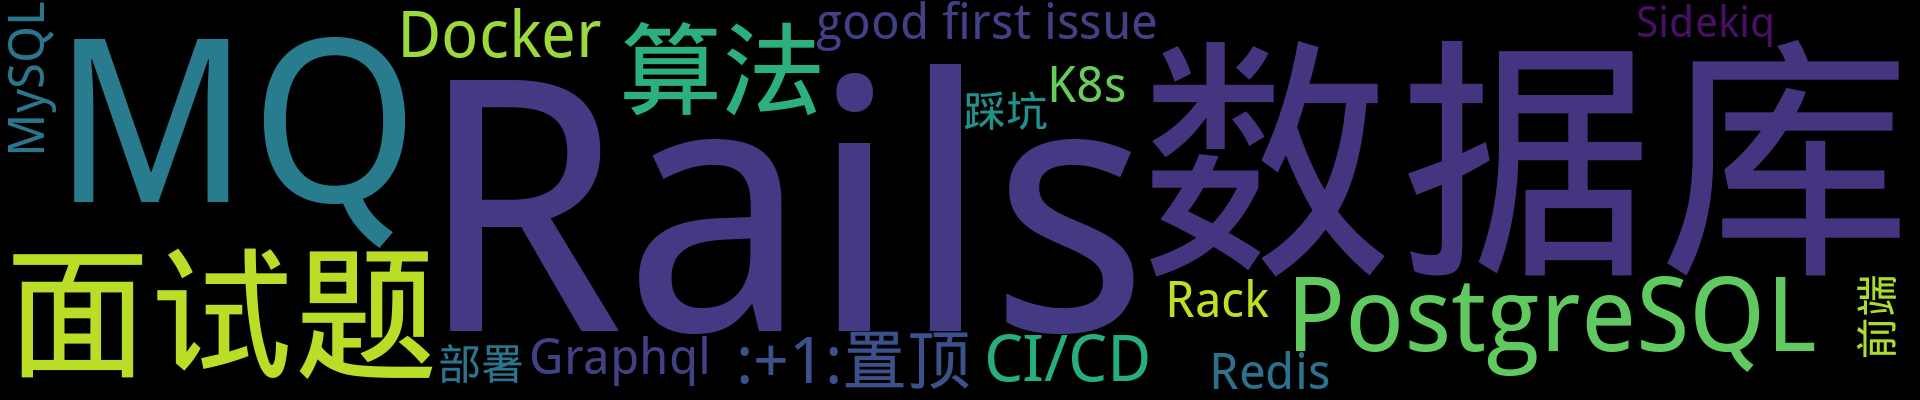
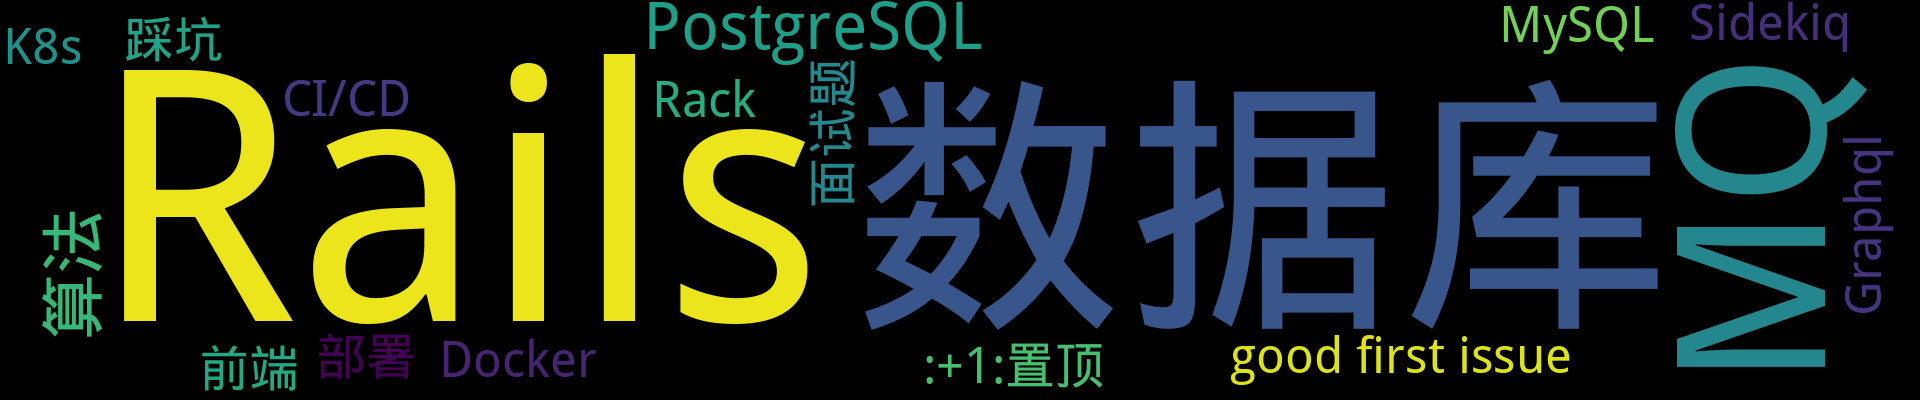
Update from Github Action

diff --git a/README.md b/README.md
@@ -3,7 +3,7 @@
 <p align='center'>
     <img src="https://badgen.net/badge/labels/22"/>
     <img src="https://badgen.net/github/issues/iamtomas/ghiblog"/>
-    <img src="https://badgen.net/badge/last-commit/2022-04-18 15:48:25"/>
+    <img src="https://badgen.net/badge/last-commit/2022-04-18 15:49:37"/>
     <img src="https://badgen.net/github/forks/iamtomas/ghiblog"/>
     <img src="https://badgen.net/github/stars/iamtomas/ghiblog"/>
     <img src="https://badgen.net/github/watchers/iamtomas/ghiblog"/>
@@ -161,11 +161,10 @@
 </details>
 
 <details>
-<summary>MQ	<sup>3:newspaper:</sup></summary>
+<summary>MQ	<sup>2:newspaper:</sup></summary>
 
 - [Kafka 3 废弃 ZooKeeper ？](https://github.com/iamtomas/note/issues/40)  <sup>0 :speech_balloon:</sup>  	 
 - [初识 Kafka](https://github.com/iamtomas/note/issues/32)  <sup>0 :speech_balloon:</sup>  	 
-- [消息队列零散知识笔记](https://github.com/iamtomas/note/issues/17)  <sup>0 :speech_balloon:</sup>  	 
 
 
 </details>
@@ -210,9 +209,8 @@
 </details>
 
 <details>
-<summary>Redis	<sup>1:newspaper:</sup></summary>
+<summary>Redis	<sup>0:newspaper:</sup></summary>
 
-- [Redis零散知识笔记](https://github.com/iamtomas/note/issues/15)  <sup>0 :speech_balloon:</sup>  	 
 
 
 </details>
@@ -253,7 +251,7 @@
 - [一条SQL查询语句是如何执行的？](https://github.com/iamtomas/note/issues/18)  <sup>0 :speech_balloon:</sup>  	 
 - [MySQL更新原理](https://github.com/iamtomas/note/issues/12)  <sup>0 :speech_balloon:</sup>  	 
 - [MySQL的InnoDB记录与页结构](https://github.com/iamtomas/note/issues/10)  <sup>0 :speech_balloon:</sup>  	 
-- [MySQL查询原理](https://github.com/iamtomas/note/issues/8)  <sup>0 :speech_balloon:</sup>  	 
+- [MySQL 查询原理](https://github.com/iamtomas/note/issues/8)  <sup>0 :speech_balloon:</sup>  	 
 
 
 </details>
@@ -284,10 +282,8 @@
 </details>
 
 <details>
-<summary>面试题	<sup>3:newspaper:</sup></summary>
+<summary>面试题	<sup>1:newspaper:</sup></summary>
 
-- [消息队列零散知识笔记](https://github.com/iamtomas/note/issues/17)  <sup>0 :speech_balloon:</sup>  	 
-- [Redis零散知识笔记](https://github.com/iamtomas/note/issues/15)  <sup>0 :speech_balloon:</sup>  	 
 - [MySQL零散知识笔记](https://github.com/iamtomas/note/issues/14)  <sup>0 :speech_balloon:</sup>  	 
 
 
